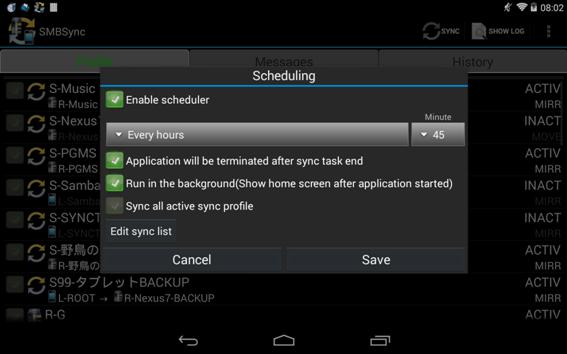
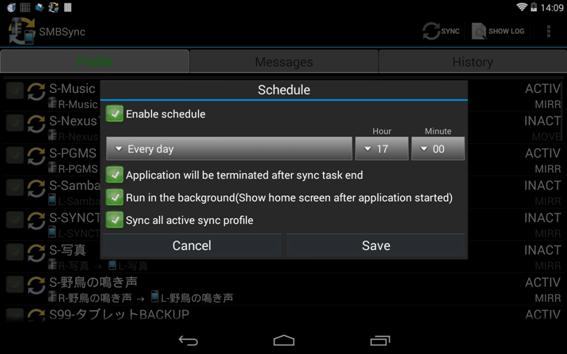
Ver2.00公開

diff --git a/assets/SMBSync_Change_EN.htm b/assets/SMBSync_Change_EN.htm
@@ -340,7 +340,7 @@ src="SMBSync_Change_EN.files/image001.png" alt="*"><span style='font:7.0pt "Time
 <p class=MsoListParagraph style='margin-left:42.0pt;text-indent:-21.0pt'><span
 lang=EN-US style='font-family:Symbol'><img width=11 height=11
 src="SMBSync_Change_EN.files/image002.png" alt="*"><span style='font:7.0pt "Times New Roman"'>&nbsp;&nbsp;&nbsp;&nbsp;&nbsp;&nbsp;&nbsp;&nbsp;
-</span></span><span lang=EN-US>Add schedule function.</span></p>
+</span></span><span lang=EN-US>Adding a schedule synchronization.</span></p>
 
 <p class=MsoListParagraph style='margin-left:42.0pt;text-indent:-21.0pt'><span
 lang=EN-US style='font-family:Symbol'><img width=11 height=11
@@ -404,8 +404,8 @@ src="SMBSync_Change_EN.files/image001.png" alt="*"><span style='font:7.0pt "Time
 <p class=MsoListParagraph style='margin-left:42.0pt;text-indent:-21.0pt'><span
 lang=EN-US style='font-family:Symbol'><img width=11 height=11
 src="SMBSync_Change_EN.files/image002.png" alt="*"><span style='font:7.0pt "Times New Roman"'>&nbsp;&nbsp;&nbsp;&nbsp;&nbsp;&nbsp;&nbsp;&nbsp;
-</span></span><span lang=EN-US>Fixed a bug that the format error in network
-connection error</span></p>
+</span></span><span lang=EN-US>Fixed a bug that the format error in network connection
+error</span></p>
 
 <p class=MsoListParagraph style='margin-left:21.0pt;text-indent:-21.0pt'><span
 lang=EN-US style='font-family:Symbol'><img width=11 height=11
@@ -432,8 +432,8 @@ Local-to-Local</span></p>
 <p class=MsoListParagraph style='margin-left:42.0pt;text-indent:-21.0pt'><span
 lang=EN-US style='font-family:Symbol'><img width=11 height=11
 src="SMBSync_Change_EN.files/image002.png" alt="*"><span style='font:7.0pt "Times New Roman"'>&nbsp;&nbsp;&nbsp;&nbsp;&nbsp;&nbsp;&nbsp;&nbsp;
-</span></span><span lang=EN-US>Can be specified by the port number of the
-remote SMB host</span></p>
+</span></span><span lang=EN-US>Can be specified by the port number of the remote
+SMB host</span></p>
 
 <p class=MsoListParagraph style='margin-left:21.0pt;text-indent:-21.0pt'><span
 lang=EN-US style='font-family:Symbol'><img width=11 height=11
@@ -1025,8 +1025,8 @@ lang=EN-US style='font-family:Symbol'><img width=11 height=11
 src="SMBSync_Change_EN.files/image002.png" alt="*"><span style='font:7.0pt "Times New Roman"'>&nbsp;&nbsp;&nbsp;&nbsp;&nbsp;&nbsp;&nbsp;&nbsp;
 </span></span><span lang=EN-US>Made it possible to display a confirmation
 dialog before deleting/overwriting the file. If you want to display a
-confirmation dialog, please check the &quot;Confirm&quot; in the
-synchronization profile. </span></p>
+confirmation dialog, please check the &quot;Confirm&quot; in the synchronization
+profile. </span></p>
 
 <p class=MsoListParagraph style='margin-left:42.0pt;text-indent:-21.0pt'><span
 lang=EN-US style='font-family:Symbol'><img width=11 height=11
@@ -1242,8 +1242,8 @@ src="SMBSync_Change_EN.files/image002.png" alt="*"><span style='font:7.0pt "Time
 <p class=MsoListParagraph style='margin-left:42.0pt;text-indent:-21.0pt'><span
 lang=EN-US style='font-family:Symbol'><img width=11 height=11
 src="SMBSync_Change_EN.files/image002.png" alt="*"><span style='font:7.0pt "Times New Roman"'>&nbsp;&nbsp;&nbsp;&nbsp;&nbsp;&nbsp;&nbsp;&nbsp;
-</span></span><span lang=EN-US>Add the sample profile during the first boot after
-installation </span></p>
+</span></span><span lang=EN-US>Add the sample profile during the first boot
+after installation </span></p>
 
 <p class=MsoListParagraph style='margin-left:42.0pt;text-indent:-21.0pt'><span
 lang=EN-US style='font-family:Symbol'><img width=11 height=11
@@ -1461,8 +1461,8 @@ src="SMBSync_Change_EN.files/image001.png" alt="*"><span style='font:7.0pt "Time
 <p class=MsoListParagraph style='margin-left:42.0pt;text-indent:-21.0pt'><span
 lang=EN-US style='font-family:Symbol'><img width=11 height=11
 src="SMBSync_Change_EN.files/image002.png" alt="*"><span style='font:7.0pt "Times New Roman"'>&nbsp;&nbsp;&nbsp;&nbsp;&nbsp;&nbsp;&nbsp;&nbsp;
-</span></span><span lang=EN-US>Added warning message when you ignore the last modification
-time for the media stores library files </span></p>
+</span></span><span lang=EN-US>Added warning message when you ignore the last
+modification time for the media stores library files </span></p>
 
 <p class=MsoListParagraph style='margin-left:42.0pt;text-indent:-21.0pt'><span
 lang=EN-US style='font-family:Symbol'><img width=11 height=11

diff --git a/assets/SMBSync_Desc_EN.htm b/assets/SMBSync_Desc_EN.htm
@@ -1287,7 +1287,7 @@ clear=all style='page-break-before:always'>
 <p class=318pt><a name="_Toc392830795"></a><a name="_Toc375829982"><span
 lang=EN-US>2.4.4 </span></a><span lang=EN-US>Sync</span></p>
 
-<p class=MsoNormal><span lang=EN-US><img border=0 width=567 height=354
+<p class=MsoNormal><span lang=EN-US><img border=0 width=567 height=354 id="図 13"
 src="SMBSync_Desc_EN.files/image012.jpg"></span></p>
 
 <p class=MsoListBullet2 style='margin-left:42.0pt;text-indent:-21.0pt'><span
@@ -1762,8 +1762,8 @@ lang=EN-US>&nbsp;</span></p>
 
 <p class=21><a name="_Toc392830801"><span lang=EN-US>3.3 History tab</span></a></p>
 
-<p class=MsoBodyText><span lang=EN-US><img border=0 width=566 height=354
-id="図 17" src="SMBSync_Desc_EN.files/image021.jpg"></span></p>
+<p class=MsoBodyText><span lang=EN-US><img border=0 width=567 height=354
+src="SMBSync_Desc_EN.files/image021.jpg"></span></p>
 
 <p class=MsoBodyText><span lang=EN-US>Show sync history.</span></p>
 
@@ -1786,10 +1786,10 @@ lang=EN-US>Move to bottom.</span></p>
 <p class=MsoListBullet style='margin-left:21.0pt;text-indent:-21.0pt'><span
 lang=EN-US style='font-family:Symbol'><img width=11 height=11
 src="SMBSync_Desc_EN.files/image001.png" alt="*"><span style='font:7.0pt "Times New Roman"'>&nbsp;&nbsp;&nbsp;&nbsp;&nbsp;&nbsp;&nbsp;
-</span></span><span lang=EN-US>Browse log file</span></p>
+</span></span><span lang=EN-US>Show log</span></p>
 
 <p class=MsoBodyTextFirstIndent2 style='margin-left:21.0pt;text-indent:0mm'><span
-lang=EN-US>Browse log file.</span></p>
+lang=EN-US>Show sync log message.</span></p>
 
 <p class=MsoListBullet style='margin-left:21.0pt;text-indent:-21.0pt'><span
 lang=EN-US style='font-family:Symbol'><img width=11 height=11
@@ -1924,13 +1924,13 @@ clear=all style='page-break-before:always'>
 <p class=MsoBodyText><span lang=EN-US>&nbsp;</span></p>
 
 <h2 style='margin-top:12.0pt'><a name="_Toc392830809"><span lang=EN-US>4.7
-Sucheduling</span></a></h2>
+Suchedu</span></a><span lang=EN-US>e</span></h2>
 
 <p class=MsoNormal style='word-break:break-all'><span lang=EN-US>To schedule
 sync.</span></p>
 
 <p class=MsoNormal style='word-break:break-all'><span lang=EN-US><img border=0
-width=567 height=354 id="図 13" src="SMBSync_Desc_EN.files/image023.jpg"></span></p>
+width=567 height=354 id="図 10" src="SMBSync_Desc_EN.files/image023.jpg"></span></p>
 
 <p class=MsoNormal style='margin-left:42.0pt;text-indent:-21.0pt;word-break:
 break-all'><span lang=EN-US style='font-family:Symbol'><img width=11 height=11
@@ -2126,7 +2126,8 @@ starts.</span></p>
 <p class=MsoListBullet style='margin-left:21.0pt;text-indent:-21.0pt'><span
 lang=EN-US style='font-family:Symbol'><img width=11 height=11
 src="SMBSync_Desc_EN.files/image001.png" alt="*"><span style='font:7.0pt "Times New Roman"'>&nbsp;&nbsp;&nbsp;&nbsp;&nbsp;&nbsp;&nbsp;
-</span></span><span lang=EN-US>Auto termination(If “Sync task Auto start” is enabled)</span></p>
+</span></span><span lang=EN-US>Auto termination(If “Sync task Auto start” is
+enabled)</span></p>
 
 <p class=MsoBodyTextFirstIndent2 style='margin-left:21.0pt;text-indent:0mm'><span
 lang=EN-US>Exit the application after the end of automatic synchronization.</span></p>

diff --git a/assets/SMBSync_Change_JA.htm b/assets/SMBSync_Change_JA.htm
@@ -259,7 +259,7 @@ src="SMBSync_Change_JA.files/image001.png" alt="*"><span style='font:7.0pt "Time
 <p class=MsoListParagraph style='margin-left:42.0pt;text-indent:-21.0pt'><span
 lang=EN-US style='font-family:Symbol'><img width=11 height=11
 src="SMBSync_Change_JA.files/image002.png" alt="*"><span style='font:7.0pt "Times New Roman"'>&nbsp;&nbsp;&nbsp;&nbsp;&nbsp;&nbsp;&nbsp;&nbsp;
-</span></span><span style='font-family:"ＭＳ 明朝","serif"'>スケジュール機能の追加</span></p>
+</span></span><span style='font-family:"ＭＳ 明朝","serif"'>スケジュール同期機能の追加</span></p>
 
 <p class=MsoListParagraph style='margin-left:42.0pt;text-indent:-21.0pt'><span
 lang=EN-US style='font-family:Symbol'><img width=11 height=11

diff --git a/src/com/sentaroh/android/SMBSync/SMBSyncMain.java b/src/com/sentaroh/android/SMBSync/SMBSyncMain.java
@@ -1758,22 +1758,6 @@ public class SMBSyncMain extends FragmentActivity {
 		
 		if (!item.sync_result_file_path.equals("")) {
 			ccMenu.addMenuItem(
-					getString(R.string.msgs_sync_history_ccmeu_show_result),R.drawable.ic_64_browse_text)
-			.setOnClickListener(new CustomContextMenuOnClickListener() {
-				@Override
-				public void onClick(CharSequence menuTitle) {
-					Intent intent = 
-							new Intent(android.content.Intent.ACTION_VIEW);
-					intent.setDataAndType(
-							Uri.parse("file://"+item.sync_result_file_path),
-							"text/plain");
-					startActivityForResult(intent,1);
-				}
-			});
-		}
-		
-		if (item.isLogFileAvailable) {
-			ccMenu.addMenuItem(
 					getString(R.string.msgs_sync_history_ccmeu_show_log),R.drawable.ic_64_browse_text)
 			.setOnClickListener(new CustomContextMenuOnClickListener() {
 				@Override
@@ -1781,7 +1765,7 @@ public class SMBSyncMain extends FragmentActivity {
 					Intent intent = 
 							new Intent(android.content.Intent.ACTION_VIEW);
 					intent.setDataAndType(
-							Uri.parse("file://"+item.sync_log_file_path),
+							Uri.parse("file://"+item.sync_result_file_path),
 							"text/plain");
 					startActivityForResult(intent,1);
 				}
